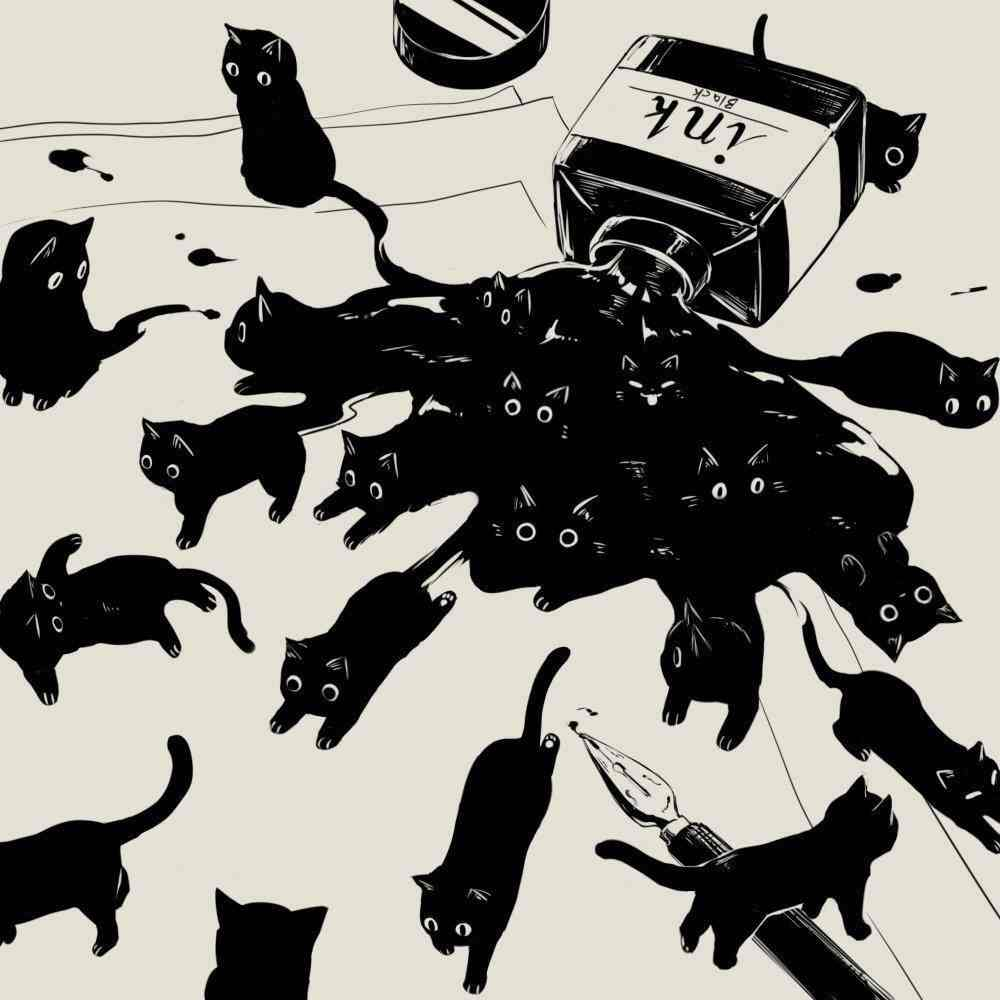
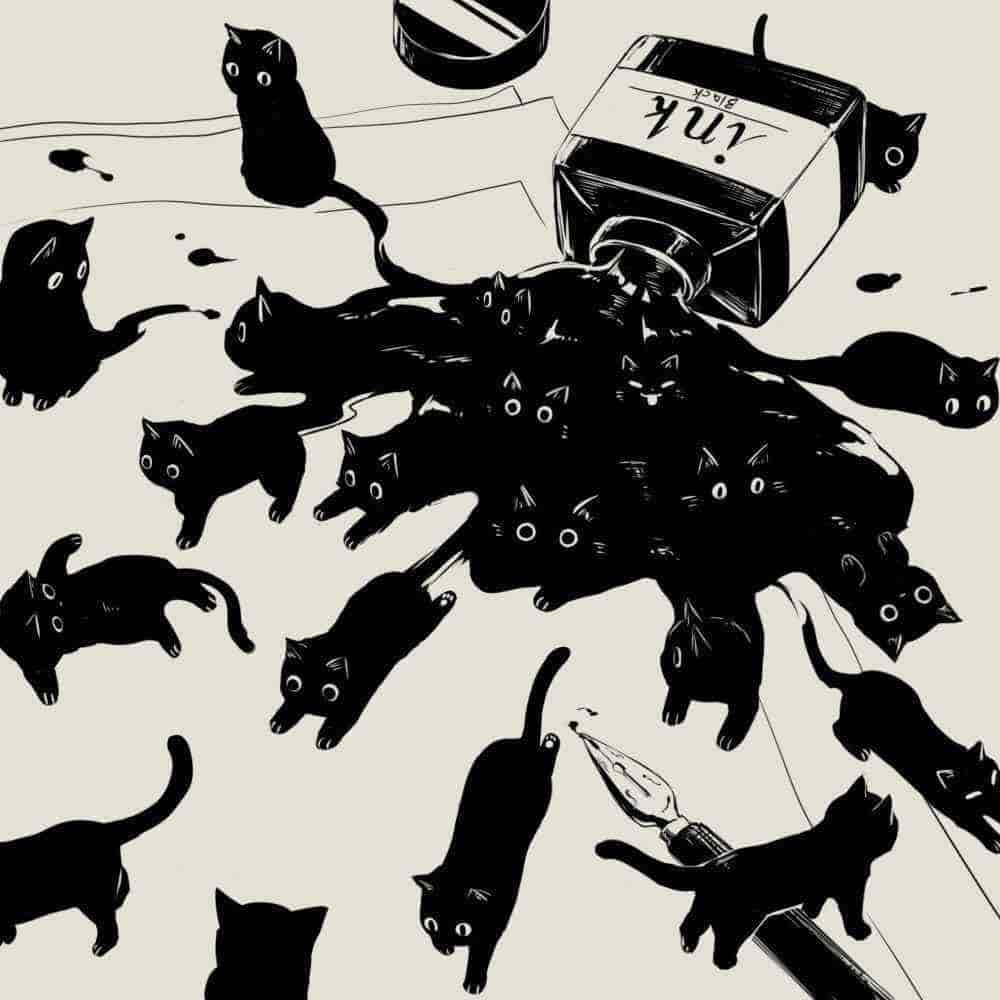
Codeigniter-Blog v2.1 Added pagination function, Improved css, Compressed image size

diff --git a/static/css/background.css b/static/css/background.css
@@ -1,4 +1,4 @@
- #home {
+#home {
     margin: 40px;
     background-color: #E3D8BC;
     background-image: url(../images/bg.png);
@@ -38,7 +38,7 @@
     color: #444;
 }
 
- #learnjourney {
+#learnjourney {
      margin: 40px;
      background-color: #E4E0D5;
      background-image: url(../images/InkCat.jpg);
@@ -49,7 +49,7 @@
      color: #444;
  }
 
- #guestbook-color {
+#guestbook-color {
      margin: 40px;
      background-image: url(../images/Alice.jpg);
      background-size: 100% 100%;

diff --git a/static/css/style.css b/static/css/style.css
@@ -108,5 +108,5 @@ span.bds_more{line-height:16px !important;}
 .article-type{padding-left: 5%;padding-right: 5%;}
 .article-content{
     padding-top: 2%;padding-left: 5%;padding-right: 5%;padding-bottom: 5%;
-    line-height:2;font-style: oblique;letter-spacing: 1px;text-indent:2em;
+    line-height:2;letter-spacing: 1px;text-indent:2em;
 }

diff --git a/application/controllers/Home.php b/application/controllers/Home.php
@@ -20,7 +20,7 @@ class Home extends CI_Controller
         $this->load->view('home', $data);//加载视图
     }
 
-    public function article($id)
+    public function article($id)//文章详情页
     {
         $data['rows'] = $this->home_model->article($id);
         $this->load->view('article', $data);
@@ -33,13 +33,25 @@ class Home extends CI_Controller
 
     public function tweets()
     {
-        $data['rows'] = $this->home_model->tweets();
+        $config['base_url']='http://cc.com:89/home/tweets';
+        $config['total_rows']=$this->db->get("tweets")->num_rows();
+        $config['per_page']=10;
+        $config['num_links']=100;
+        $this->pagination->initialize($config);
+
+        $data['rows'] = $this->home_model->tweets($config);
         $this->load->view('tweets', $data);
     }
 
     public function diaries()
     {
-        $data['rows'] = $this->home_model->diaries();
+        $config['base_url']='http://cc.com:89/home/diaries';
+        $config['total_rows']=$this->db->get("diaries")->num_rows();
+        $config['per_page']=8;
+        $config['num_links']=100;
+        $this->pagination->initialize($config);
+
+        $data['rows'] = $this->home_model->diaries($config);
         $this->load->view('diaries', $data);
     }
 
@@ -50,13 +62,25 @@ class Home extends CI_Controller
 
     public function learn()
     {
-        $data['rows'] = $this->home_model->learn();
+        $config['base_url']='http://cc.com:89/home/learn';
+        $config['total_rows']=$this->db->get("article")->num_rows();
+        $config['per_page']=8;
+        $config['num_links']=100;
+        $this->pagination->initialize($config);
+
+        $data['rows'] = $this->home_model->learn($config);
         $this->load->view('learn', $data);
     }
 
     public function guestbook()
     {
-        $data['rows'] = $this->home_model->guestbook();
+        $config['base_url']='http://cc.com:89/home/guestbook';
+        $config['total_rows']=$this->db->get("guestbook")->num_rows();
+        $config['per_page']=8;
+        $config['num_links']=100;
+        $this->pagination->initialize($config);
+
+        $data['rows'] = $this->home_model->guestbook($config);
         $this->load->view('guestbook', $data);
     }
 
@@ -68,8 +92,8 @@ class Home extends CI_Controller
         }
         elseif ($this->input->post('name') && $this->input->post('content') && $this->input->post('date') != null)
         {
-            $name = $this->input->post('name');
-            $content = $this->input->post('content');
+            $name = $this->security->xss_clean($this->input->post('name'));//XSS攻击防护
+            $content = $this->security->xss_clean($this->input->post('content'));
             $date = $this->input->post('date');
             $result = $this->home_model->message($name, $content, $date);
 

diff --git a/application/models/Home_model.php b/application/models/Home_model.php
@@ -14,7 +14,7 @@ class Home_model extends CI_Model{
         //$query = $this->db->query('select * from article order by id desc limit 0,5');//加载数据表
 
         //调用article表,按id倒序排列并显示6条数据
-        $data = $this->db->from('article')->order_by('id', 'desc')->limit(6)->get();
+        $data = $this->db->from('article')->order_by('id', 'desc')->limit(8)->get();
         return $data->result();//单结果标准查询（对象形式）
     }
 
@@ -24,27 +24,27 @@ class Home_model extends CI_Model{
         return $data->result()[0];
     }
 
-    public function tweets()
+    public function tweets($config)
     {
-        $query = $this->db->get('tweets');
+        $query = $this->db->get('tweets', $config['per_page'],$this->uri->segment(3));
         return $query->result_array();//单结果标准查询（数组形式）
     }
 
-    public function diaries()
+    public function diaries($config)
     {
-        $query = $this->db->get('diaries');
+        $query = $this->db->get('diaries', $config['per_page'],$this->uri->segment(3));
         return $query->result_array();
     }
 
-    public function learn()
+    public function learn($config)
     {
-        $query = $this->db->get('article');
-        return $query->result_array();//多结果标准查询（数组形式）
+        $query = $this->db->get('article', $config['per_page'],$this->uri->segment(3));
+        return $query->result_array();
     }
 
-    public function guestbook()
+    public function guestbook($config)
     {
-        $query = $this->db->get('guestbook');
+        $query = $this->db->get('guestbook', $config['per_page'],$this->uri->segment(3));
         return $query->result_array();
     }
 

diff --git a/application/views/guestbook.php b/application/views/guestbook.php
@@ -40,7 +40,7 @@ defined('BASEPATH') OR exit('No direct script access allowed');
 <!--content start-->
 <div id="content">
     <!--left-->
-    <div class="left" id="guestbook">
+    <div class="left" id="c_left">
         <div class="weizi">
             <div class="wz_text">当前位置：首页><h1>留言板</h1></div>
         </div>
@@ -49,13 +49,15 @@ defined('BASEPATH') OR exit('No direct script access allowed');
             有什么想对我说的嘛？&nbsp&nbsp<a href="<?php echo base_url('home/message');?>">给我留言</a>
             <?php if (isset($rows)) { foreach ($rows as $row):?>
             <h4><font color="#ff69b4"><br/>
-                <?php echo $row['name']?><br/>
-                <?php echo $row['content']?><br/>
-                <?php echo $row['date']?>
+                    &nbsp&nbsp<?php echo $row['name']?><br/>
+                    &nbsp&nbsp<?php echo $row['content']?><br/>
+                    &nbsp&nbsp<?php echo $row['date']?>
             </font></h4>
-            <?php endforeach;}?>
+            <?php endforeach;}?><br />&nbsp&nbsp
+            <font color="blue" size="4"><?php echo $this->pagination->create_links();?></font>
         </div>
     </div>
+
     <!--end left -->
     <!--right-->
     <div class="right" id="c_right">

diff --git a/application/views/admin/guestbook.php b/application/views/admin/guestbook.php
@@ -38,7 +38,7 @@ defined('BASEPATH') OR exit('No direct script access allowed');
 <!--content start-->
 <div id="content">
     <!--left-->
-    <div class="left" id="guestbook">
+    <div class="left" id="c_left">
         <div class="weizi">
             <div class="wz_text">当前位置：首页><h1>留言板</h1></div>
         </div>
@@ -47,9 +47,9 @@ defined('BASEPATH') OR exit('No direct script access allowed');
             有什么想对我说的嘛？
             <?php if (isset($rows)) { foreach ($rows as $row):?>
                 <h4><font color="#ff69b4"><br/>
-                    <?php echo $row['name']?><br/>
-                    <?php echo $row['content']?><br/>
-                    <?php echo $row['date']?>
+                        &nbsp&nbsp<?php echo $row['name']?><br/>
+                        &nbsp&nbsp<?php echo $row['content']?><br/>
+                        &nbsp&nbsp<?php echo $row['date']?>
                     <a><?php echo anchor('admin/admin/delete_guestbook/'.$row['id'],'删除留言')?></a>
                 </font></h4>
             <?php endforeach;}?>

diff --git a/application/views/home.php b/application/views/home.php
@@ -25,7 +25,7 @@ defined('BASEPATH') OR exit('No direct script access allowed');
         <table bgcolor="#FFFFFF">
             <tr>
                 <td>
-                    <input type=text name=keyword size=11 value="">
+                    <input type=text name=keyword size=11 value="" placeholder="输入关键字">
                     <input type=hidden name=ie value=UTF8>
                     <input type=hidden name=oe value=UTF8>
                     <input type=hidden name=hl value=zh-CN>
@@ -135,7 +135,7 @@ defined('BASEPATH') OR exit('No direct script access allowed');
 <!--content end-->
 <!--footer start-->
 <div id="footer">
-    <p>Design by：Nova <?php echo date('Y-m-d');?></p>
+    <p>Design by：Nova &nbsp&nbsp<?php echo date('Y-m-d');?><br />Development based on CodeIgniter</p>
 </div>
 <script type="text/javascript" src="<?php echo base_url();?>static/js/jquery1.42.min.js"></script>
 <script type="text/javascript" src="<?php echo base_url();?>static/js/jquery.SuperSlide.2.1.1.js"></script>

diff --git a/application/controllers/admin/Admin.php b/application/controllers/admin/Admin.php
@@ -54,8 +54,8 @@ class Admin extends CI_Controller
 
         }else{
 
-            $username = $this->input->post('username');
-            $password = $this->input->post('password');
+            $username = $this->security->xss_clean($this->input->post('username'));//XSS攻击防护
+            $password = $this->security->xss_clean($this->input->post('password'));
 
             if ($this->admin_model->login($username, $password))
             {

diff --git a/application/views/diaries.php b/application/views/diaries.php
@@ -58,7 +58,8 @@ defined('BASEPATH') OR exit('No direct script access allowed');
                     <?php echo $row['date']?>
                 </div>
                 <div class="clear"></div>
-                <?php endforeach;}?>
+                <?php endforeach;}?><br />&nbsp&nbsp
+                <font color="blue" size="4"><?php echo $this->pagination->create_links();?></font>
             </div>
             <!--时光 end-->
         </div>

diff --git a/application/views/learn.php b/application/views/learn.php
@@ -63,7 +63,8 @@ defined('BASEPATH') OR exit('No direct script access allowed');
                     <div class="clear"></div>
                 </dl>
             </div>
-            <!--wz end--><?php endforeach;}?>
+            <!--wz end--><?php endforeach;}?><br />&nbsp&nbsp
+            <font color="blue" size="4"><?php echo $this->pagination->create_links();?></font>
         </div>
     </div>
     <!--end left -->

diff --git a/application/views/tweets.php b/application/views/tweets.php
@@ -47,7 +47,8 @@ defined('BASEPATH') OR exit('No direct script access allowed');
         </div>
         <span class="dateview"><?php echo $row['date']?></span>
     </ul>
-    <?php endforeach;}?>
+    <?php endforeach;}?><br />&nbsp&nbsp
+    <font color="blue" size="5"><?php echo $this->pagination->create_links();?></font>
 </div>
 <!--content end-->
 <!--footer-->
